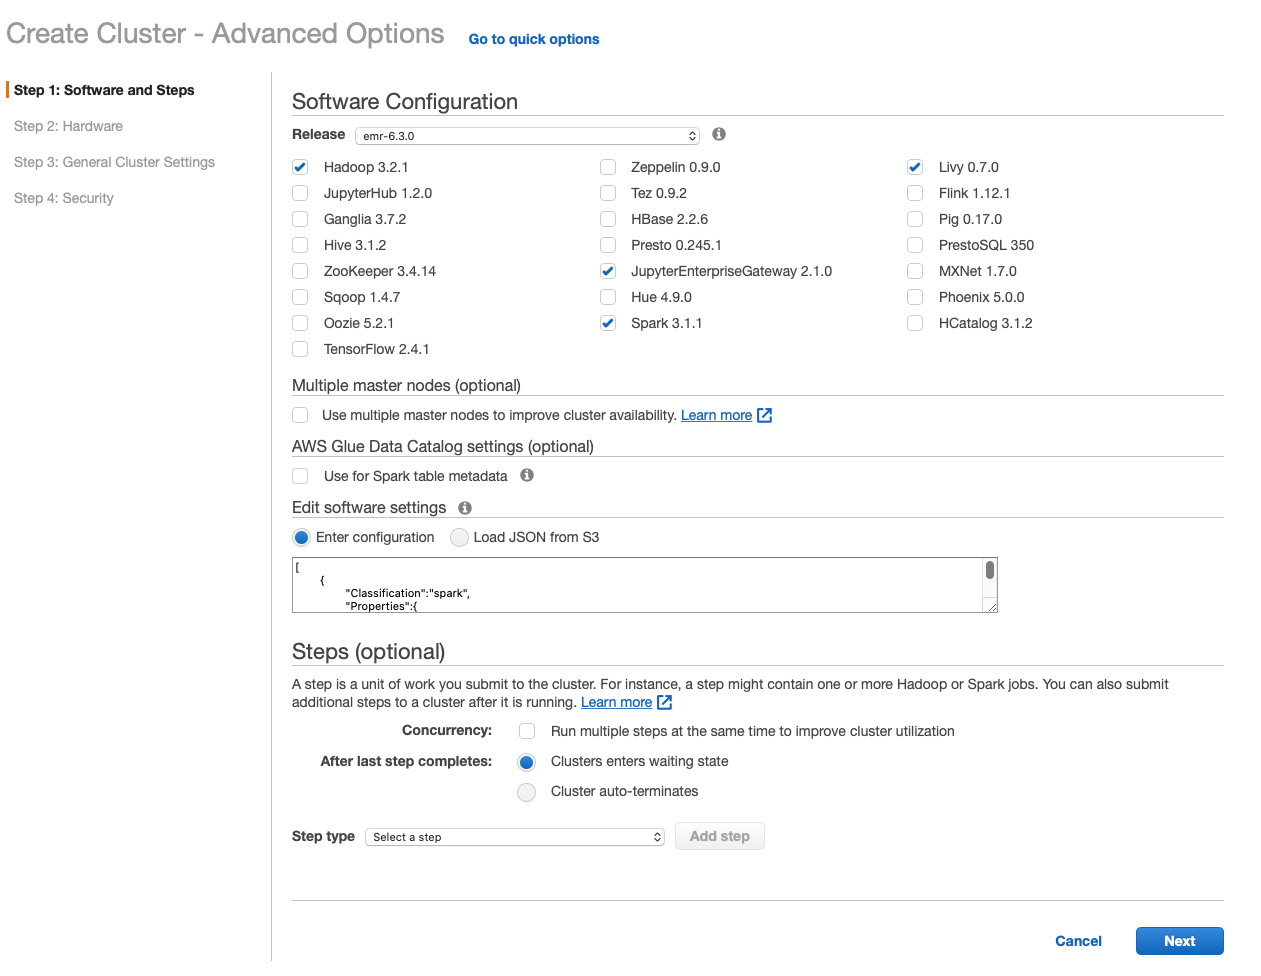
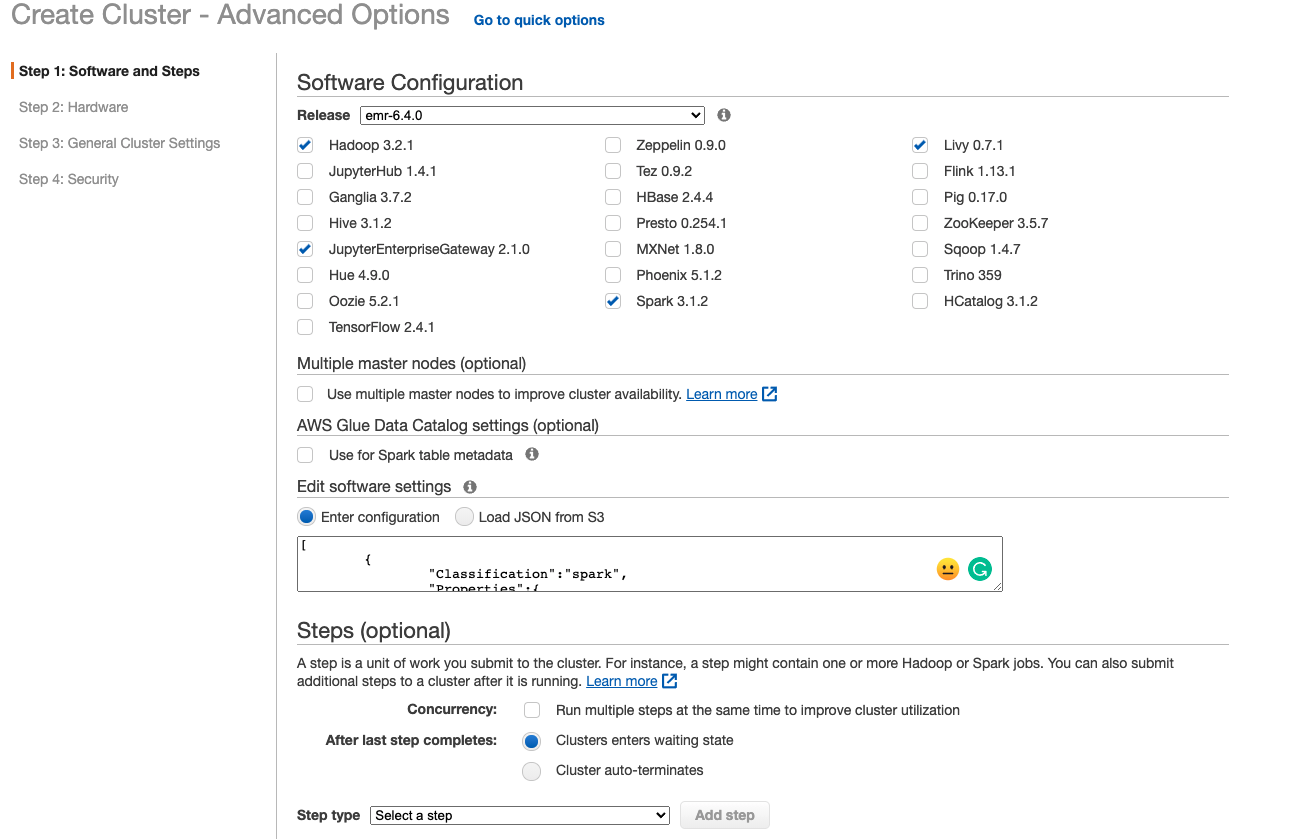
update emr 6.4 getting started doc and pic[skip ci] (#3858)
* update emr 6.4 getting started doc and pic

* update emr 6.4 getting started doc and pic

diff --git a/docs/get-started/getting-started-aws-emr.md b/docs/get-started/getting-started-aws-emr.md
@@ -14,6 +14,7 @@ Different versions of EMR ship with different versions of Spark, RAPIDS Accelera
 
 | EMR | Spark | RAPIDS Accelerator jar | cuDF jar | xgboost4j-spark jar
 | --- | --- | --- | ---| --- |
+| 6.4 | 3.1.2 | rapids-4-spark_2.12-0.4.1.jar | cudf-0.18.1-cuda10-1.jar | xgboost4j-spark_3.0-1.2.0-0.1.0.jar |
 | 6.3 | 3.1.1 | rapids-4-spark_2.12-0.4.1.jar | cudf-0.18.1-cuda10-1.jar | xgboost4j-spark_3.0-1.2.0-0.1.0.jar |
 | 6.2 | 3.0.1 | rapids-4-spark_2.12-0.2.0.jar | cudf-0.15-cuda10-1.jar | xgboost4j-spark_3.0-1.0.0-0.2.0.jar |
 
@@ -35,7 +36,7 @@ g4dn.2xlarge nodes:
 
 ```
 aws emr create-cluster \
---release-label emr-6.3.0 \
+--release-label emr-6.4.0 \
 --applications Name=Hadoop Name=Spark Name=Livy Name=JupyterEnterpriseGateway \
 --service-role EMR_DefaultRole \
 --ec2-attributes KeyName=my-key-pair,InstanceProfile=EMR_EC2_DefaultRole \
@@ -75,8 +76,8 @@ detailed cluster configuration page.
 
 #### Step 1:  Software Configuration and Steps
 
-Select **emr-6.3.0** for the release, uncheck all the software options, and then check **Hadoop
-3.2.1**, **Spark 3.1.1**, **Livy 0.7.0** and **JupyterEnterpriseGateway 2.1.0**.
+Select **emr-6.4.0** for the release, uncheck all the software options, and then check **Hadoop
+3.2.1**, **Spark 3.1.2**, **Livy 0.7.0** and **JupyterEnterpriseGateway 2.1.0**.
 
 In the "Edit software settings" field, copy and paste the configuration from the [EMR
 document](https://docs.aws.amazon.com/emr/latest/ReleaseGuide/emr-spark-rapids.html). You can also
